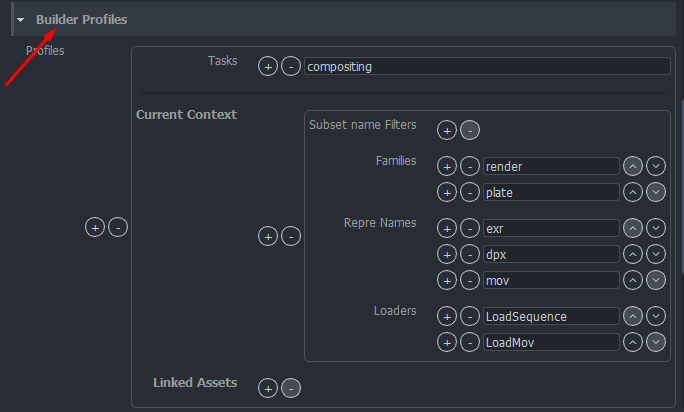
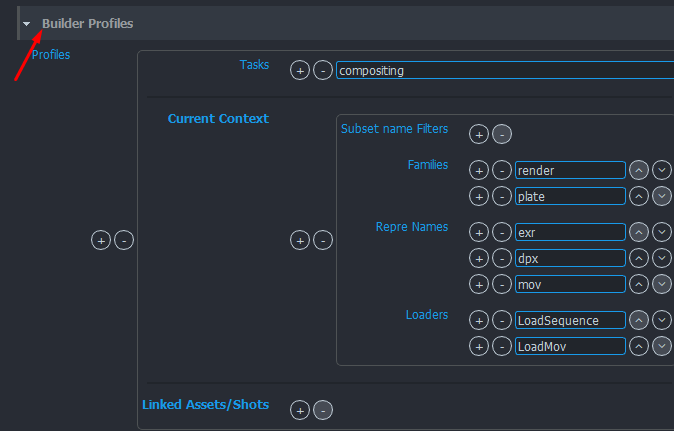
settings: `Linked Assets` renamed to `Linked Assets/Shots`

diff --git a/website/docs/project_settings/settings_project_nuke.md b/website/docs/project_settings/settings_project_nuke.md
@@ -47,8 +47,8 @@ Builder profiles are set of rules allowing artist Load any available versions fo
 
 - **Filter**: Each profile could be defined with task filter. In case no filter is defined, a profile will be working for all.
 
-- **Context section**: filtres for subset name, families, representation names and available Loader plugin.
+- **Context section**: filtres for subset name (regex accepted), families, representation names and available Loader plugin.
 
-- **Linked Assets**: filters for asset builds to be added
+- **Linked Assets/Shots**: filters for asset builds to be added
 
 ![nuke_workfile_options_builder_profiles](assets/nuke_workfile_options_builder_profiles.png)